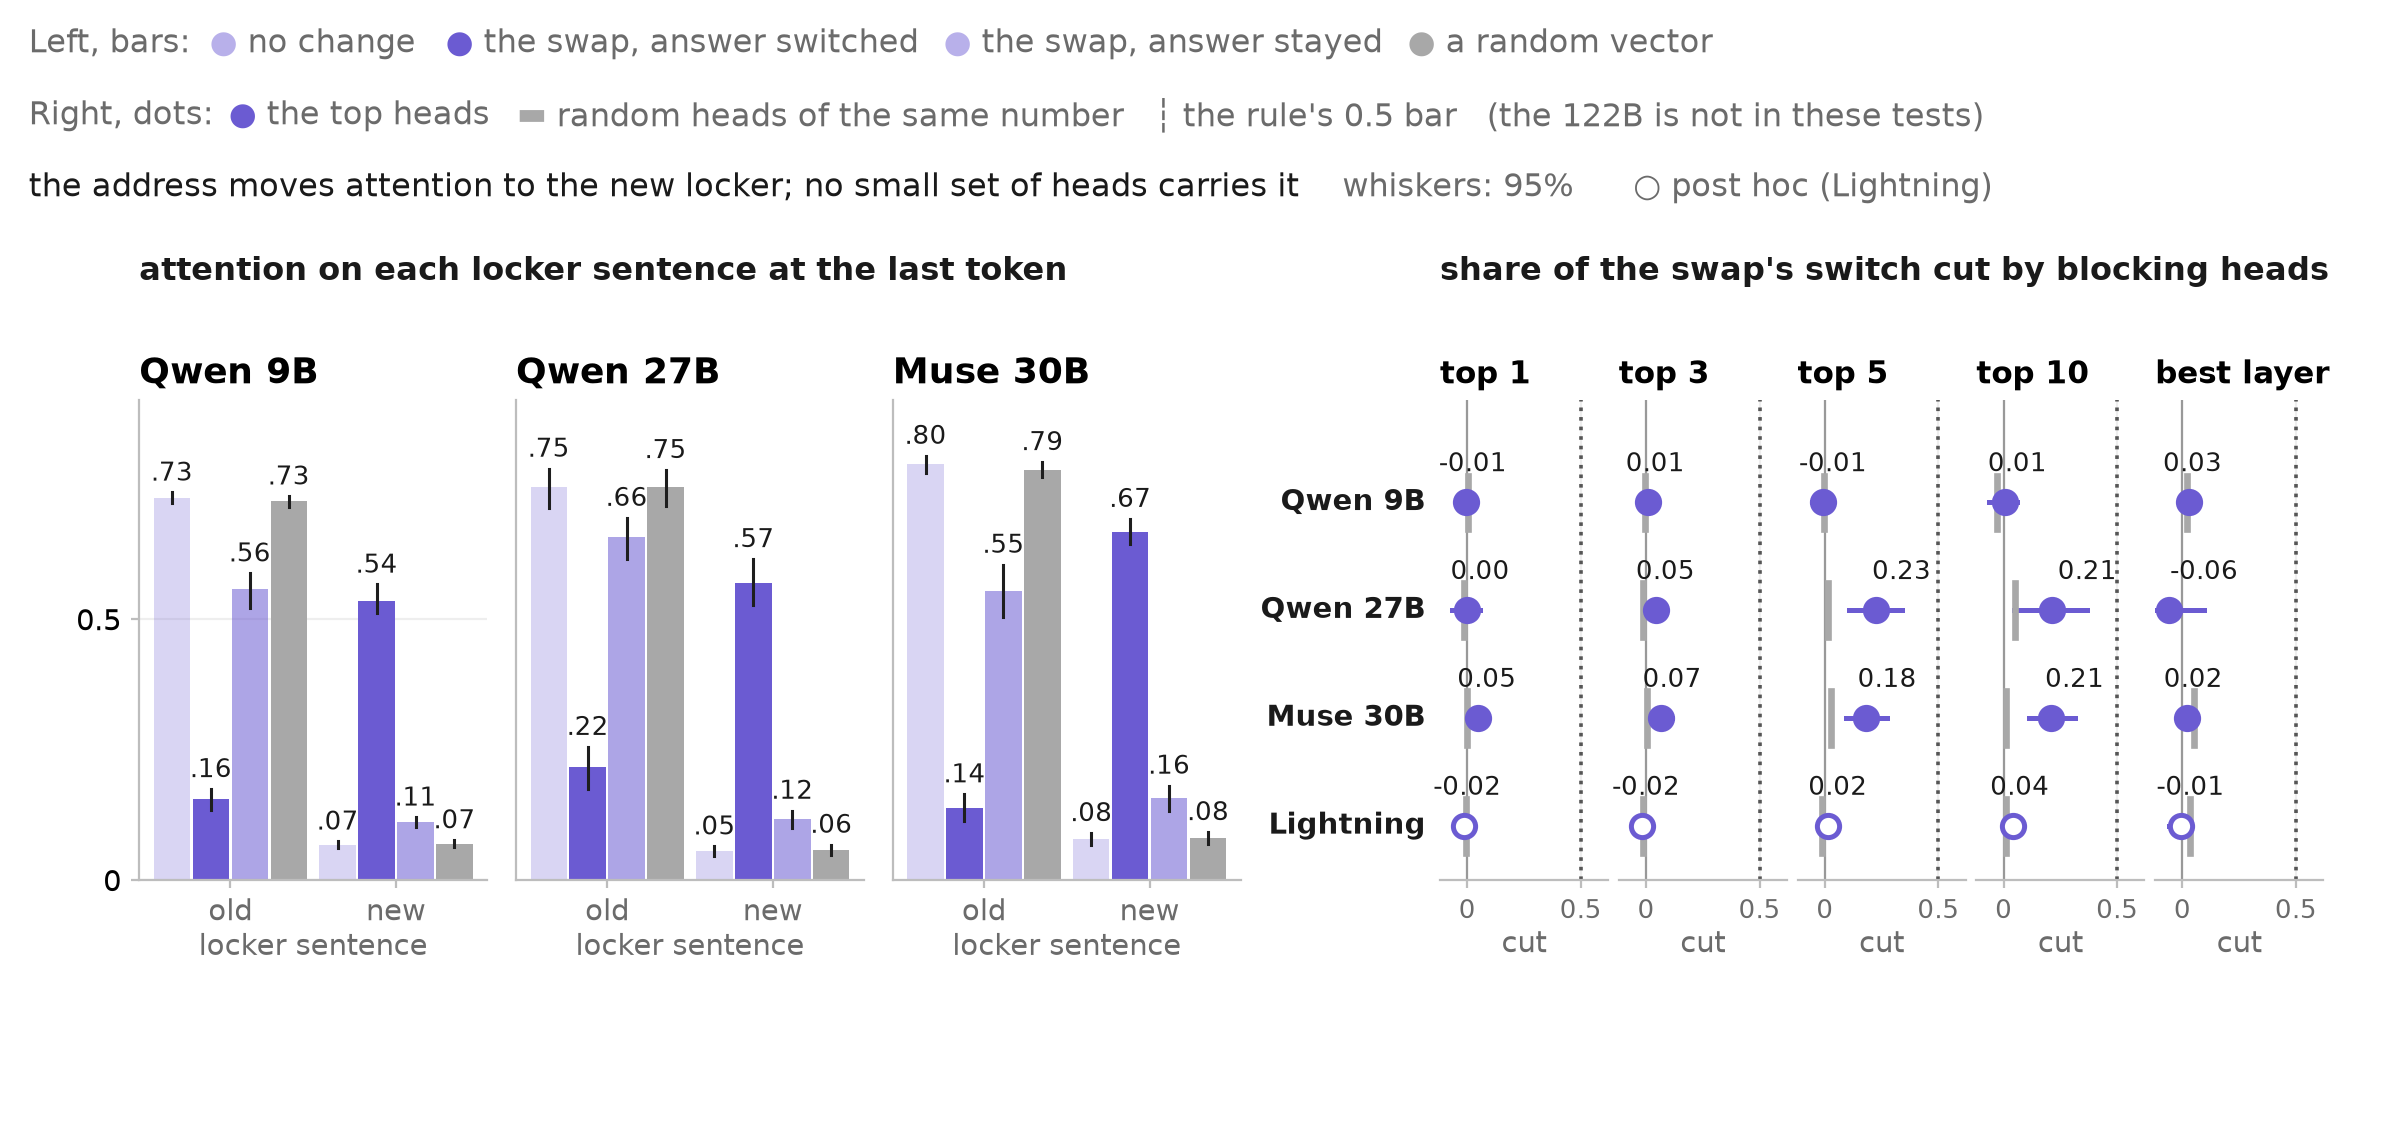
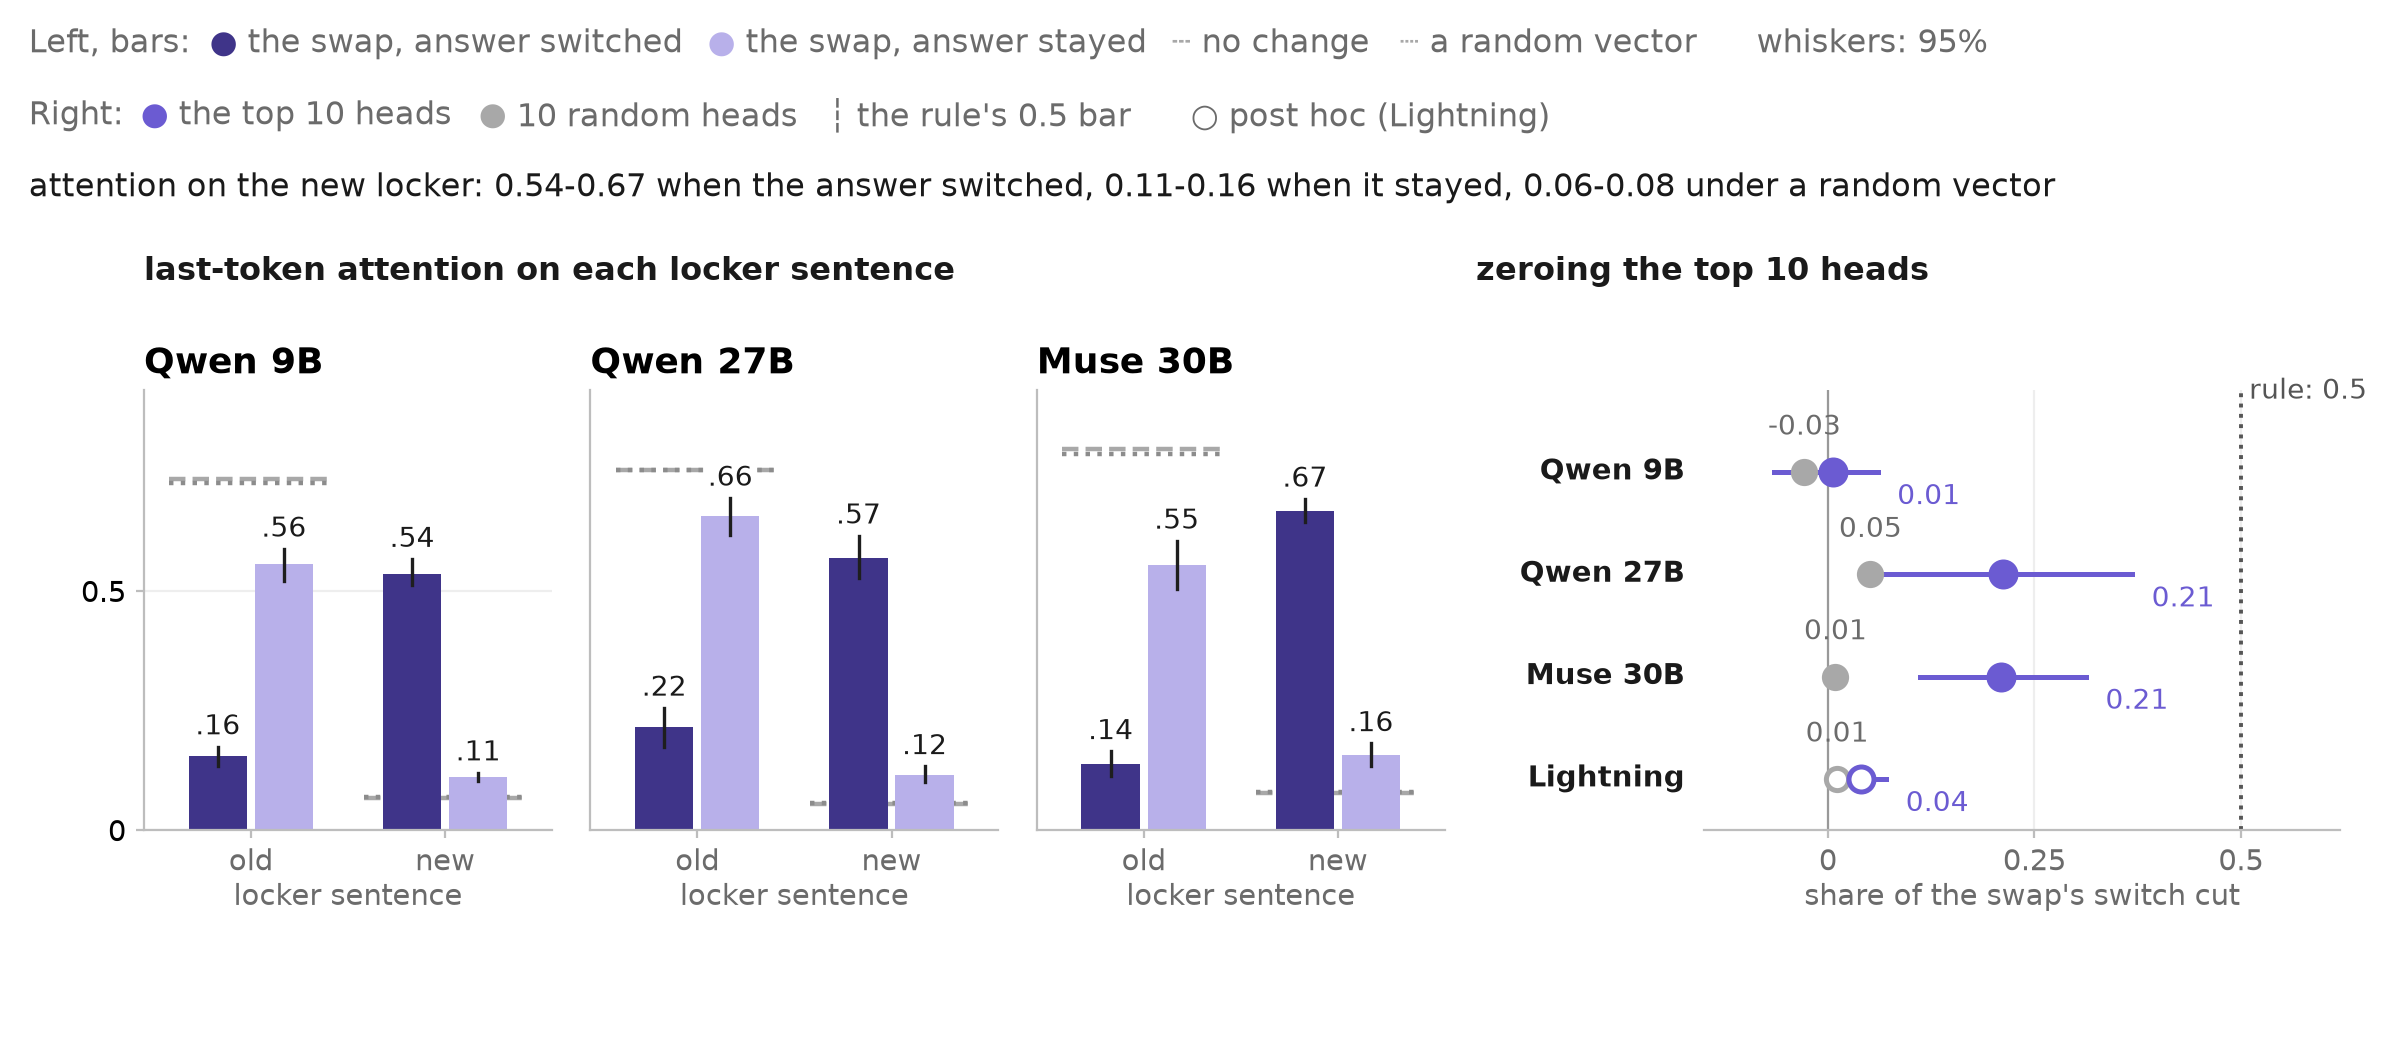
deck: f17_attention v2: left two bars per group (the swap, answer switched / stayed) with the no-change and random-vector means as dashed reference ticks; right one small panel, the top 10 heads against 10 random heads per model with the rule's 0.5 bar. Not on the figure (share of the swap's switch 

diff --git a/src/bridge_jspace/figkit/curve_figs.py b/src/bridge_jspace/figkit/curve_figs.py
@@ -211,28 +211,30 @@ def f_ladder() -> None:
 
 # ---- f17: attention follows the swap; no small set of heads carries it ---------------------------------------------------------
 def f_attention() -> None:
-    """Left (fig13_attention, 49.7): the last token's attention on the old (slot j) and the new (slot k) locker sentence, mean of five heads, under no change,
-    the swap with the answer switched, the swap with the answer staying, a random vector. Right (ledger_heads, 51.2): the share of the swap's switch cut by
-    blocking the top 1 / 3 / 5 / 10 heads and the best layer's heads, against random head sets of the same number, the rule's 0.5 bar."""
-    h = 5.7
+    """Left (fig13_attention, 49.7): per model the last token's attention on the old (slot j) and the new (slot k) locker sentence, mean of five heads, two bars
+    per group (the swap with the answer switched, with it staying), the no-change and the random-vector means as thin dashed reference ticks over the group.
+    Right (ledger_heads, 51.2): the share of the swap's switch cut by blocking the top 10 heads against 10 random heads, with the rule's 0.5 bar."""
+    h = 5.3
     fig = plt.figure(figsize=(W, h))
-    top, bottom = 2.0 / h, 1.3 / h
+    top, bottom = 1.95 / h, 1.15 / h
     ph = 1 - top - bottom
     left_models = ("qwen3.5-9b", "qwen3.6-27b", "muse-glimmer-30b")
     pre = "attention mass on slot {}'s locker sentence, {} (mean of five heads, read half)"
-    conds = (("no change, switched pairs", "no change", 0.25, C["lookup"]), ("the swap, answer switched", "swap, switched", 1.0, C["lookup"]),
-             ("the swap, answer stayed", "swap, stayed", 0.55, C["lookup"]), ("a random vector, switched pairs", "random vector", 1.0, C["control"]))
-    x0, pw, gap = 0.058, 0.145, 0.012
+    sw, st, nc, rv = "the swap, answer switched", "the swap, answer stayed", "no change, switched pairs", "a random vector, switched pairs"
+    x0, pw, gap = 0.06, 0.17, 0.016
     for k, m in enumerate(left_models):
         ax = fig.add_axes((x0 + k * (pw + gap), bottom, pw, ph))
         ax.set_title(NAME[m], fontsize=FS + 1, weight="bold", loc="left", pad=6)
         for gi, slot in enumerate(("j", "k")):
-            for ci, (q, _lab, alpha, col) in enumerate(conds):
+            for q, col, dx in ((sw, C["lookup_dark"], -0.17), (st, C["lookup_light"], 0.17)):
                 v = D.s(m, pre.format(slot, q), "fig13")
-                x = gi + (ci - 1.5) * 0.235
-                ax.bar(x, v[0], width=0.22, color=col, alpha=alpha, lw=0, zorder=2)
-                ax.plot([x, x], [v[1], v[2]], color="#1e1e1e", lw=1.1, zorder=3)
-                ax.annotate(f"{v[0]:.2f}".lstrip("0"), (x, v[2]), xytext=(0, 2), textcoords="offset points", ha="center", va="bottom", fontsize=9.4, color=INK)
+                ax.bar(gi + dx, v[0], width=0.3, color=col, lw=0, zorder=2)
+                ax.plot([gi + dx] * 2, [v[1], v[2]], color="#1e1e1e", lw=1.2, zorder=3)
+                ax.annotate(f"{v[0]:.2f}".lstrip("0"), (gi + dx, v[2]), xytext=(0, 2), textcoords="offset points", ha="center", va="bottom", fontsize=10, color=INK, zorder=6,
+                            bbox={"boxstyle": "square,pad=0.08", "fc": "white", "ec": "none"})
+            for q, ls, col in ((nc, "--", C["control"]), (rv, ":", "#8C8C8C")):
+                v = D.s(m, pre.format(slot, q), "fig13")
+                ax.plot([gi - 0.42, gi + 0.42], [v[0]] * 2, color=col, ls=ls, lw=1.6, zorder=1.5)
         ax.set_xlim(-0.55, 1.55)
         ax.set_ylim(0, 0.92)
         ax.set_xticks([0, 1], ["old", "new"])
@@ -245,47 +247,44 @@ def f_attention() -> None:
         ax.grid(axis="y", color="#EEEEEE")
         ax.set_axisbelow(True)
         ax.set_xlabel("locker sentence", fontsize=FS - 1.5, color=MUTED, labelpad=2)
-    fig.text(x0, 1 - 1.4 / h, "attention on each locker sentence at the last token", fontsize=FS - 0.5, color=INK, weight="bold")
-    # right: five head sets, rows = models
-    sets = (("top 1", "top 1"), ("top 3", "top 3"), ("top 5", "top 5"), ("top 10", "top 10"), ("best layer", "best layer"))
+    fig.text(x0, 1 - 1.4 / h, "last-token attention on each locker sentence", fontsize=FS - 0.5, color=INK, weight="bold")
+    # right: the top 10 heads against 10 random heads, rows = models
     rmodels = ("qwen3.5-9b", "qwen3.6-27b", "muse-glimmer-30b", "nemotron-3.5-lightning")
-    rx0, rw, rgap = 0.60, 0.07, 0.0045
-    for k, (key, title) in enumerate(sets):
-        ax = fig.add_axes((rx0 + k * (rw + rgap), bottom, rw, ph))
-        ax.set_title(title, fontsize=FS - 1, weight="bold", loc="left", pad=6)
-        ax.set_xlim(-0.12, 0.62)
-        ax.set_ylim(len(rmodels) - 0.5, -0.95)
-        for i, m in enumerate(rmodels):
-            v = D.s(m, f"last token, {key}: share of the swap's switch cut", "ledger_heads")
-            rnd = D.s(m, f"last token, {key}: random sets' mean cut", "ledger_heads")
-            hol = D.hollow(m)
-            if v is None:
-                continue
-            ax.plot([v[1], v[2]], [i, i], color=C["lookup"], lw=1.8, zorder=3)
-            ax.plot([rnd[0]] * 2, [i - 0.25, i + 0.25], color=C["control"], lw=2.4, zorder=4)
-            ax.plot([v[0]], [i], "o", ms=8, color=C["lookup"], mfc="white" if hol else C["lookup"], mew=1.8, zorder=5)
-            ax.annotate(f"{v[0]:.2f}".replace("-0.00", "0.00"), (max(v[2], v[0]), i), xytext=(0, 9), textcoords="offset points", ha="center", va="bottom", fontsize=9.4, color=INK)
-        ax.axvline(0.5, color="#555555", ls=":", lw=1.3, zorder=1)
-        ax.axvline(0, color="#999999", lw=0.8, zorder=1)
-        ax.set_yticks([])
-        ax.set_xticks([0, 0.5], ["0", "0.5"])
-        ax.tick_params(labelsize=FS - 2.5, length=3, color=FAINT)
-        for sp in ("top", "right", "left"):
-            ax.spines[sp].set_visible(False)
-        ax.spines["bottom"].set_color(FAINT)
-        ax.grid(axis="x", color="#EEEEEE")
-        ax.set_axisbelow(True)
-        ax.set_xlabel("cut", fontsize=FS - 1.5, color=MUTED, labelpad=2)
-        if k == 0:
-            for i, m in enumerate(rmodels):
-                fig.text(rx0 - 0.006, bottom + ph * (1 - (i + 0.95) / (len(rmodels) + 0.45)), NAME[m], ha="right", va="center", fontsize=FS - 1.5, color=INK, weight="bold")
-    fig.text(rx0, 1 - 1.4 / h, "share of the swap's switch cut by blocking heads", fontsize=FS - 0.5, color=INK, weight="bold")
-    rows = [[("Left, bars:  ", MUTED, "normal"), ("●", C["lookup_light"], "normal"), (" no change   ", MUTED, "normal"), ("●", C["lookup"], "normal"),
-             (" the swap, answer switched   ", MUTED, "normal"), ("●", C["lookup_light"], "normal"), (" the swap, answer stayed   ", MUTED, "normal"),
-             ("●", C["control"], "normal"), (" a random vector", MUTED, "normal")],
-            [("Right, dots:  ", MUTED, "normal"), ("●", C["lookup"], "normal"), (" the top heads   ", MUTED, "normal"), ("▬", C["control"], "normal"),
-             (" random heads of the same number   ┆ the rule's 0.5 bar   (the 122B is not in these tests)", MUTED, "normal")],
-            [("the address moves attention to the new locker; no small set of heads carries it", INK, "normal"),
-             ("      whiskers: 95%      ○ post hoc (Lightning)", MUTED, "normal")]]
+    rx0, rw = 0.71, 0.265
+    ax = fig.add_axes((rx0, bottom, rw, ph))
+    ax.set_xlim(-0.15, 0.62)
+    ax.set_ylim(len(rmodels) - 0.5, -0.8)
+    for i, m in enumerate(rmodels):
+        v = D.s(m, "last token, top 10: share of the swap's switch cut", "ledger_heads")
+        rnd = D.s(m, "last token, top 10: random sets' mean cut", "ledger_heads")
+        hol = D.hollow(m)
+        ax.plot([v[1], v[2]], [i, i], color=C["lookup"], lw=1.8, zorder=3)
+        ax.plot([rnd[0]], [i + 0.0], "o", ms=8, color=C["control"], mfc="white" if hol else C["control"], mew=1.8, zorder=4)
+        ax.plot([v[0]], [i], "o", ms=9, color=C["lookup"], mfc="white" if hol else C["lookup"], mew=1.8, zorder=5)
+        ax.annotate(f"{v[0]:.2f}", (v[2], i), xytext=(7, -9), textcoords="offset points", ha="left", va="center", fontsize=10, color=C["lookup"])
+        ax.annotate(f"{rnd[0]:.2f}".replace("-0.00", "0.00"), (rnd[0], i), xytext=(0, 11), textcoords="offset points", ha="center", va="bottom", fontsize=10, color=MUTED)
+        fig.text(rx0 - 0.008, bottom + ph * (1 - (i + 0.8) / (len(rmodels) + 0.3)), NAME[m], ha="right", va="center", fontsize=FS - 1.5, color=INK, weight="bold")
+    ax.axvline(0.5, color="#555555", ls=":", lw=1.4, zorder=1)
+    ax.text(0.51, -0.65, "rule: 0.5", ha="left", va="bottom", fontsize=10, color="#555555")
+    ax.axvline(0, color="#999999", lw=0.8, zorder=1)
+    ax.set_yticks([])
+    ax.set_xticks([0, 0.25, 0.5], ["0", "0.25", "0.5"])
+    ax.tick_params(labelsize=FS - 1.5, length=3, color=FAINT)
+    for sp in ("top", "right", "left"):
+        ax.spines[sp].set_visible(False)
+    ax.spines["bottom"].set_color(FAINT)
+    ax.grid(axis="x", color="#EEEEEE")
+    ax.set_axisbelow(True)
+    ax.set_xlabel("share of the swap's switch cut", fontsize=FS - 1.5, color=MUTED, labelpad=2)
+    fig.text(rx0 - 0.095, 1 - 1.4 / h, "zeroing the top 10 heads", fontsize=FS - 0.5, color=INK, weight="bold")
+    newk = [(D.s(m, pre.format("k", q), "fig13")[0]) for m in left_models for q in (sw, st, rv)]
+    rng = lambda q: (min(D.s(m, pre.format("k", q), "fig13")[0] for m in left_models), max(D.s(m, pre.format("k", q), "fig13")[0] for m in left_models))  # noqa: E731
+    f = lambda t: f"{t[0]:.2f}-{t[1]:.2f}"  # noqa: E731
+    rows = [[("Left, bars:  ", MUTED, "normal"), ("●", C["lookup_dark"], "normal"), (" the swap, answer switched   ", MUTED, "normal"), ("●", C["lookup_light"], "normal"),
+             (" the swap, answer stayed   ", MUTED, "normal"), ("┄", C["control"], "normal"), (" no change   ", MUTED, "normal"), ("┈", C["control"], "normal"),
+             (" a random vector      whiskers: 95%", MUTED, "normal")],
+            [("Right:  ", MUTED, "normal"), ("●", C["lookup"], "normal"), (" the top 10 heads   ", MUTED, "normal"), ("●", C["control"], "normal"),
+             (" 10 random heads   ┆ the rule's 0.5 bar      ○ post hoc (Lightning)", MUTED, "normal")],
+            [(f"attention on the new locker: {f(rng(sw))} when the answer switched, {f(rng(st))} when it stayed, {f(rng(rv))} under a random vector", INK, "normal")]]
     _key(fig, rows, 1 - 0.22 / h)
     _save(fig, "f17_attention")
